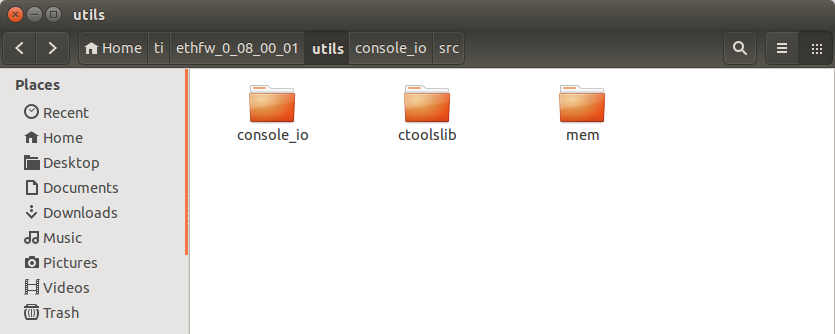
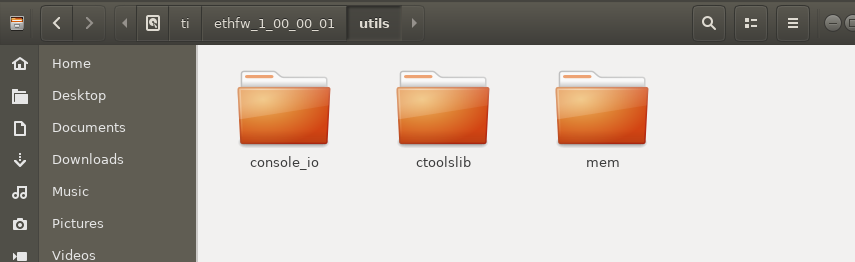
1.0 docs - User guide and release notes

diff --git a/ethfw_release_notes.html b/ethfw_release_notes.html
@@ -49,7 +49,7 @@
 
 <!-- Generated by Doxygen 1.5.1-p1 -->
 <h1 align="center"><a name="XDC_TOP"></a>EthFw Release Notes</h1>
-<h2 align="center">Version: 00.09.01</h2>
+<h2 align="center">Version: 01.00.00</h2>
 <p>
 </p><p>
 </p><h2><a class="anchor" name="Contents"></a>Contents</h2>

diff --git a/internal_docs/docs_doxy_cfg/content_pages/common_user_guide/01001_user_guide.md b/internal_docs/docs_doxy_cfg/content_pages/common_user_guide/01001_user_guide.md
@@ -13,17 +13,34 @@ For additional information about EthFw refer to [EthFw Introduction](@ref ethfw_
 
 EthFw Demos showcases usage and integration of EthFw to use & configure CPSW9G IP
 in the Jacinto 7 devices. These peripheral/board level sample/demo examples
-demonstrates the capabilities of the CPSW9G IP features & EthFw.
+demonstrates the capabilities of the CPSW9G IP features & EthFw stack.
 
 Listed below are some of the key applications.
-Demo         | Comments
--------------|--------------
+Demo                               | Comments
+-----------------------------------|--------------
 L2 Switching | Configures Switch to enable switching between its external ports
+L2/L3 address based classification | Illustrates traffic steering to A72(linux) and R5F(RTOS) based on L2 header. Illustrate with iperf and web server traffic from PC1/PC2
+Inter-VLAN Routing (SW)| Showcases Inter-VLAN routing using  lookup and forward operations being done in SW(R5). Showcase low-level lookup and forwarding on top of CPSW LLD
+Inter-VLAN Routing (HW)| Illustrates hardware offload support for Inter-VLAN routing. Illustrate Line rate routing with no additional impact on R5 CPU load
 
 
-## EthFw Switching & TCP/IP Apps Demo {#ethfw_depend_eg}
+
+## EthFw Switching & TCP/IP Apps Demo {#ethfw_switching_demo}
 This demo showcases switching capabilities of the J721E integrated Ethernet Switch
 (CPSW9G) for features like VLAN, Multicast etc. This demo also showcases TI NDK (TCP/IP) integration into EthFw. In this demo we showcase usage of HTTP server.
+
+## Inter-VLAN Routing {#ethfw_intervlan_demo}
+This demo illustrates Line-rate Inter-VLAN routing in hardware without any additional load on EthFw core.
+This demo showcases InterVLAN routing capability of CPSW IP along with software fall-back support.
+CPSW ALE classifier feature is used per flow to characterize the route and configure the egress operation.
+
+Available egress operations
+- Replace Destination (MAC) Address
+- Replace Source (MAC) Address
+- Replace VLAN ID
+- Optional decrement of Time To Live (TTL)
+- Supports IPv4 (TTL) and IPv6 (Hop Limit) fields
+- Packets with 0 or 1 TTL/Hop Limit are sent to the host for error processing
 
 For further information, please refer to the @ref demo_l2_switching_ndk_top demo
 application documentation.
@@ -36,10 +53,11 @@ application documentation.
 
 Feature         | Comments
 ----------------|--------------
-L2 Switching    | Support for configuration of switch to enable L2 Switching between external ports
-VLAN            | Support for creating and deleting VLAN
-Multicast       | Support for enabling/disabling multicast
+L2 Switching    | Support for configuration of switch to enable L2 Switching between external ports with VLAN, multi-cast
+Inter-VLAN Routing  | Inter-VLAN routing configuration in HW with software fall-back support
 NDK Integration | Integration of TCP/IP stack enabling TCP, UDP, HTTP apps
+Remote configuration server | Firmware app hosting the IPC server to serve remote clients like Linux Virtual MAC driver
+Resource management library | Resource management library for CPSW resource sharing across cores.
 
 [Back To Top](@ref ethfw_c_ug_top)
 
@@ -73,7 +91,7 @@ EthFw is supported on the boards/EVM listed below
 
 There are four RGMII PHYs in the J721E GESI board as show in the following image.
 They will be referred to as **MAC Port 0**, **MAC Port 1**, **MAC Port 2** and
-**MAC Port 3** thoughout this document.
+**MAC Port 3** throughout this document.
 
 ![](GESI_RJ45_SideView.png "J721E EVM GESI Board connections")
 
@@ -106,7 +124,7 @@ EthFw uses CSL to determine peripheral addresses and program peripheral register
 
 #### UDMA {#ethfw_depend_pdk_udma}
 Unified DMA (UDMA) is an integral part of the Jacinto 7 devices and is in charge of
-moving data between periperals and memory.
+moving data between peripherals and memory.
 
 PDK includes an UDMA LLD which provides APIs that the CPSW LLD relies on to send and
 receive packets to the CPSW's host port.
@@ -182,7 +200,7 @@ applications.
 
 ## Demo Aplication Sources Directory Structure {#ethfw_dir_demo}
 
-Source code of the EthFw demo applications ben found in the **apps** directory.
+Source code of the EthFw demo applications is in the **apps** directory.
 For instance, below image shows the directory structure of the L2 Switching
 application.
 
@@ -306,7 +324,7 @@ Remove EthFw build output directory only.
 The example applications use different memories and this could be changed
 and/or reconfigured via linker command files.
 
-- **linker_mem_map.cmd** is autogenerated file using PyTI_PSDK_RTOS tool
+- **linker_mem_map.cmd** is auto generated file using PyTI_PSDK_RTOS tool
   which defines memory layout (addresses and sizes)
     + Available at `<ethfw_xx_yy_zz_bb>/apps/app_<name>/<core>/linker_mem_map.cmd`
 - **linker.cmd** defines the section mappings used by EthFw application
@@ -342,7 +360,7 @@ Delete the complete `ethfw_xx_yy_zz_bb` folder.
 
 JIRA ID       | Issue Summary | Workaround
 --------------|---------------|------------
-PROC_BRDS-658 |MAC PORT 0 packet drop seen of Rx/Tx - Packet drop is seen on MAC PORT0 (RGMII1) on 1Gbps mode on GESI board of J7 EVM. This port is labelled as PRG1_RGMII1_B (image below) | Don’t connect this port
+PROC_BRDS-658 |MAC PORT 0 packet drop seen of Rx/TX - Packet drop is seen on MAC PORT0 (RGMII1) on 1Gbps mode on GESI board of J7 EVM. This port is labelled as PRG1_RGMII1_B (image below) | Don’t connect this port
 
 [Back To Top](@ref ethfw_known_issues)
 
@@ -359,7 +377,7 @@ Flag                       | Description
 `-mv=7R5`                  | Processor Architecture Cortex-R5
 `--abi=eabi`               | Application binary interface - ELF
 `-eo=.obj`                 | Output Object file extension
-`--float_support=vfpv3d16` | VFP coprocessor is enabled
+`--float_support=vfpv3d16` | VFP co-processor is enabled
 `--preproc_with_compile`   | Continue compilation after using -pp`<X>` options
 `-D=TARGET_BUILD=2`        | Identifies the build profile as 'debug'
 `-D_DEBUG_=1`              | Identifies as debug build
@@ -381,7 +399,7 @@ Flag                       | Description
 `-mv=7R5`                  | Processor Architecture Cortex-R5
 `--abi=eabi`               | Application binary interface - ELF
 `-eo=.obj`                 | Output Object file extension
-`--float_support=vfpv3d16` | VFP coprocessor is enabled
+`--float_support=vfpv3d16` | VFP co-processor is enabled
 `--preproc_with_compile`   | Continue compilation after using -pp`<X>` options
 `--opt_level=3`            | Optimization level 3
 `--gen_opt_info=2`         | Generate optimizer information file at level 2

diff --git a/internal_docs/docs_doxy_cfg/content_pages/ethfw_demos/05001_demo_ethfw_combined.md b/internal_docs/docs_doxy_cfg/content_pages/ethfw_demos/05001_demo_ethfw_combined.md
@@ -8,7 +8,7 @@
 
 This application demonstrates basic Jacinto 7 integrated switch differentiating features
 like InterVLAN Routing in Hardware, firewall, packet header based classification along with
-Layer-2 switching with VLAN, multicast and Software based InterVLAN Routing among the ports.
+Layer-2 switching with VLAN, multi-cast and Software based InterVLAN Routing among the ports.
 The traffic forwarding process among the ports don't require CPU involved or DMA bandwidth as
 everything is completely handled by CPSW hardware.
 
@@ -21,7 +21,7 @@ Below are top-level features demonstrated:
 
  - Basic L2 Switching
  - Switching with VLAN
- - Multicast switching
+ - Multi-cast switching
  - HTTP server
  - Send/Receive apps over TCP/UDP
  - Support for Remote Cores
@@ -39,7 +39,7 @@ The Ethernet Firmware demo application is in charge of:
 This application runs on the J721E EVM with GESI (Gateway/Ethernet
 Switch/Industrial Expansion Board) board. The demo application has a HTTP server
 hosting a web page which can be accessed by any device connected to the CPSW
-switch. A GUI based control interface to enable/disable/configure features like VLAN, multicast,
+switch. A GUI based control interface to enable/disable/configure features like VLAN, multi-cast,
 rate-limiting, InterVLAN Routing and also to show the load of the CPU is added in the release.
 
 A video streaming application (Ex - Plex Media Server, VLC) can be used to
@@ -54,7 +54,7 @@ The switching demo uses www.plex.tv media server for showing video streaming.
 > media server and make sure it adheres to your organization's policy before
 > using and configuring it.
 
-The IP address of J721E EVM is used to access the TCP/IP demo webpage from any
+The IP address of J721E EVM is used to access the TCP/IP demo web page from any
 device connected to the CPSW switch.
 
 ![](demo_l2_switching_diagram.png "Layer-2 Switching Application Diagram")
@@ -200,11 +200,11 @@ with J721E EVM. Refer to @ref ethfw_instal_ccs.
 
 ### Steps {#ethfw_demo_sdcard_steps}
 
--# Create a bootable SD card with Linux bootloader, kernel and filesystem.
+-# Create a bootable SD card with Linux bootloader, kernel and file system.
    For details about SD card creation, refer to the Processor SDK Linux
    Automotive User's Guide.
 
--# Copy the demo application to the **firmware** directory of Linux filesystem in SD card:
+-# Copy the demo application to the **firmware** directory of Linux file system in SD card:
 
        cp <SDK_INSTALL_PATH>/ethfw_xx_xx_xx/out/J721E/R5F/SYSBIOS/debug/_demo_.xer5f <MOUNT>/rootfs/lib/firmware/
 

diff --git a/internal_docs/docs_doxy_cfg/content_pages/common_user_guide/01003_ccs_connection.md b/internal_docs/docs_doxy_cfg/content_pages/common_user_guide/01003_ccs_connection.md
@@ -7,7 +7,7 @@
 # Download and Install CCS {#ethfw_download_instal_ccs}
 
 Code Composer Studio is an integrated development environment (IDE) that supports
-TI's Microcontroller and Embedded Processors portfolio. It provides useful tools
+TI's Micro controller and Embedded Processors portfolio. It provides useful tools
 to develop and debug embedded applications.
 
 Please visit Code Composer Studio product [page](http://www.ti.com/tool/ccstudio)

diff --git a/internal_docs/docs_doxy_cfg/content_pages/common_user_guide/01000_main_page.md b/internal_docs/docs_doxy_cfg/content_pages/common_user_guide/01000_main_page.md
@@ -30,3 +30,4 @@ Its is expected to be hosted on Cortex R5F in Main Domain.
 Revision | Date          | Author                 | Description
 ---------|---------------|------------------------|-------------------------------------
 0.1      | 02 Apr 2019   | Prasad J, Misael Lopez | Added as per 0.8 Docs review meeting
+0.2      | 14 Oct 2019   | Prasad J               | Updated stack diagram
